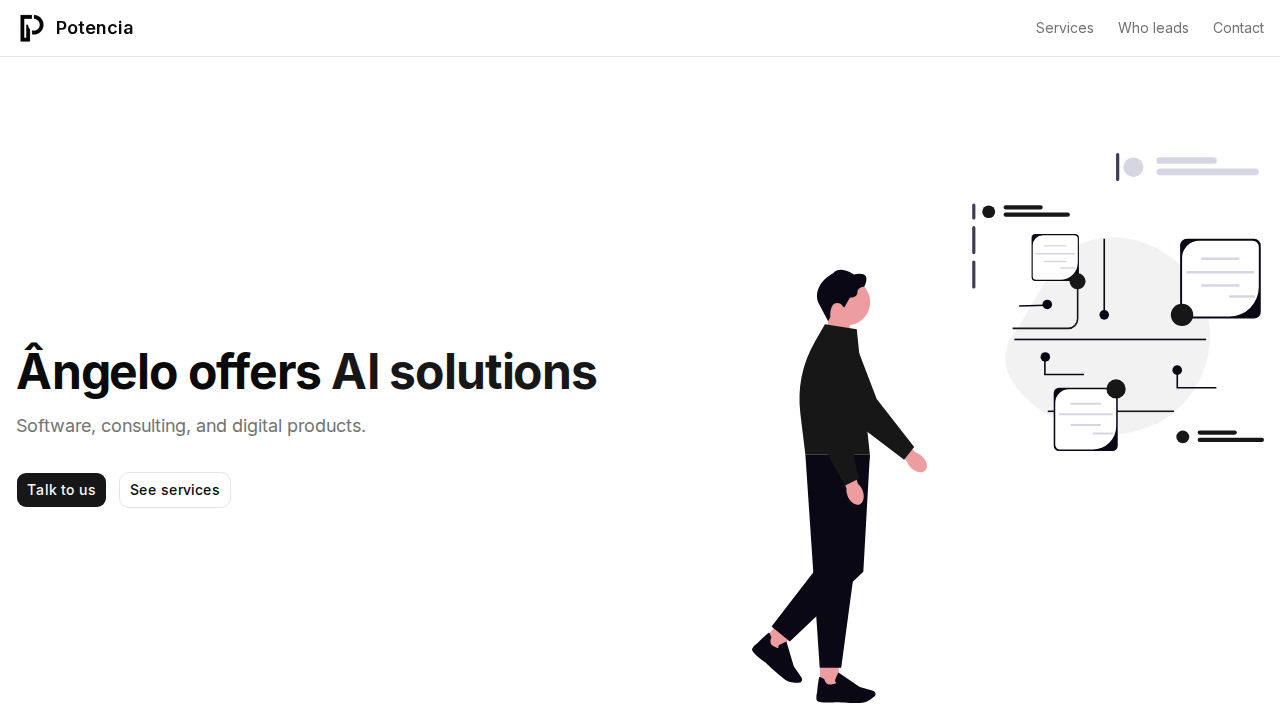
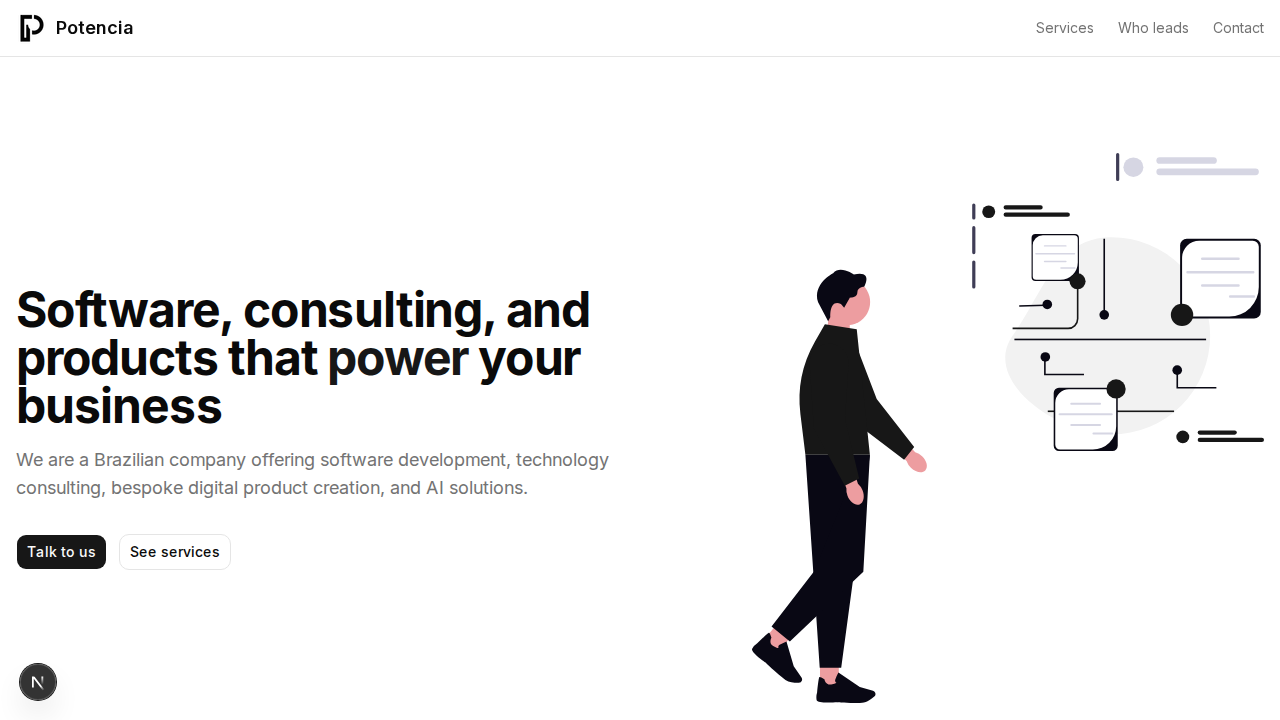
Restore hero positioning; mention AI as an additional offer
Bring back the software/consulting/products headline from main and extend
the hero body in the same voice with AI solutions, in en and pt-BR.

Changed region(s): [[0.0, 0.3972, 0.4688, 0.7028], [0.0, 0.7333, 0.1875, 0.7944], [0.0, 0.9167, 0.0625, 0.9778]]

diff --git a/e2e/ai-content-locale-pricing.spec.ts b/e2e/ai-content-locale-pricing.spec.ts
@@ -13,10 +13,14 @@ test.describe("Site locale by country", () => {
     await expect(
       page.getByRole("heading", {
         level: 1,
-        name: /Ângelo offers AI solutions/i,
+        name: /Software, consulting, and products that power your business/i,
       })
     ).toBeVisible();
-    await expect(page.getByText("Software, consulting, and digital products.")).toBeVisible();
+    await expect(
+      page.getByText(
+        "We are a Brazilian company offering software development, technology consulting, bespoke digital product creation, and AI solutions."
+      )
+    ).toBeVisible();
     await expect(page.getByRole("heading", { name: "What we do" })).toBeVisible();
     await expect(page.getByTestId("services-ai-content-link")).toHaveText(
       "AI product photos"
@@ -35,10 +39,14 @@ test.describe("Site locale by country", () => {
     await expect(
       page.getByRole("heading", {
         level: 1,
-        name: /Ângelo oferece soluções de IA/i,
+        name: /Software, consultoria e produtos que impulsionam seu negócio/i,
       })
     ).toBeVisible();
-    await expect(page.getByText("Software, consultoria e produtos digitais.")).toBeVisible();
+    await expect(
+      page.getByText(
+        "Somos uma empresa brasileira que oferece serviços de desenvolvimento de software, consultoria em tecnologia, criação de produtos digitais sob medida e soluções de IA."
+      )
+    ).toBeVisible();
     await expect(page.getByRole("heading", { name: "O que fazemos" })).toBeVisible();
     await expect(page.getByTestId("services-ai-content-link")).toHaveText(
       "Fotos de produto com IA"

diff --git a/lib/i18n/home-catalog.ts b/lib/i18n/home-catalog.ts
@@ -60,10 +60,10 @@ const ptBR: HomeMessages = {
     menuAria: "Menu",
   },
   hero: {
-    titleLead: "Ângelo oferece",
-    titleHighlight: "soluções de IA",
-    titleTail: "",
-    body: "Software, consultoria e produtos digitais.",
+    titleLead: "Software, consultoria e produtos que",
+    titleHighlight: "impulsionam",
+    titleTail: "seu negócio",
+    body: "Somos uma empresa brasileira que oferece serviços de desenvolvimento de software, consultoria em tecnologia, criação de produtos digitais sob medida e soluções de IA.",
     ctaContact: "Fale conosco",
     ctaServices: "Ver serviços",
   },
@@ -126,10 +126,10 @@ const en: HomeMessages = {
     menuAria: "Menu",
   },
   hero: {
-    titleLead: "Ângelo offers",
-    titleHighlight: "AI solutions",
-    titleTail: "",
-    body: "Software, consulting, and digital products.",
+    titleLead: "Software, consulting, and products that",
+    titleHighlight: "power",
+    titleTail: "your business",
+    body: "We are a Brazilian company offering software development, technology consulting, bespoke digital product creation, and AI solutions.",
     ctaContact: "Talk to us",
     ctaServices: "See services",
   },
